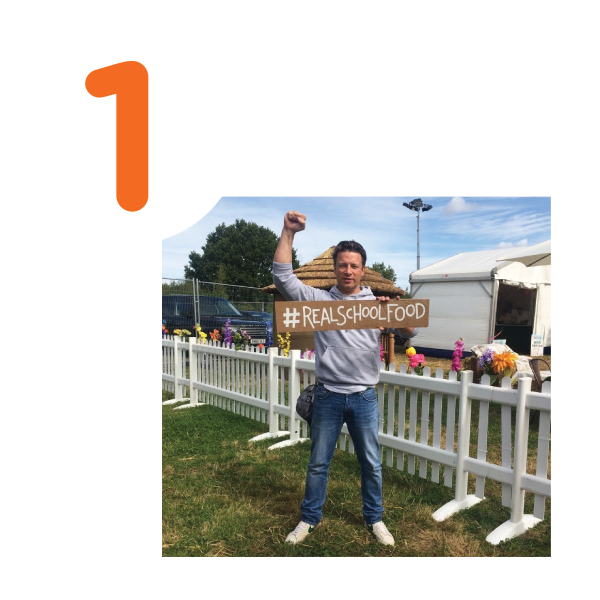
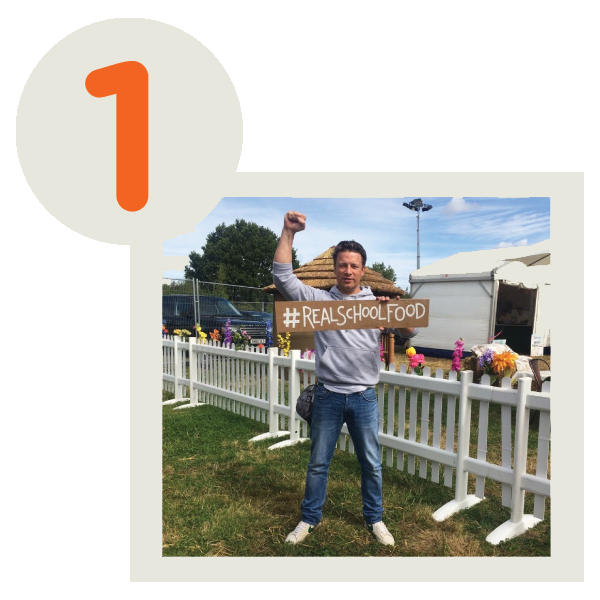
Corrected colors, links, FB album not loading

Changed region(s): [[0.0, 0.03, 0.99, 0.99], [0.81, 0.45, 0.84, 0.48]]

diff --git a/css/style.css b/css/style.css
@@ -106,6 +106,8 @@
 }
 #whyHelp ul.tabs li.current{
     background-color: rgba(204,204,204,.6);
+/*    background-color: #e7e7dd;*/
+    background-color: rgba(133, 120, 112, .2);
 }
 
 .tab-content{
@@ -114,12 +116,13 @@
     padding: 35px;
     color: rgb(88, 82, 70);
     background-color: rgba(204,204,204,.6);
+/*    background-color: #e7e7dd;*/
+    background-color: rgba(133, 120, 112, .2);
     line-height: 1.5;
     font-size: 18px;
     margin: 0 auto;
     min-height: 243px;
 }
-
 .tab-content li{
     list-style:decimal;
     margin-left: 50px;
@@ -130,7 +133,7 @@
 }
 
 #getInvolved{
-    background: #73a563;
+    background: #51843C;
     padding-bottom: 20px;
     position: relative;
 }
@@ -138,12 +141,12 @@
     width: 100%;
     margin: 0 auto;
     text-align: center;
-    color: white;
+    color: #e7e7dd;
     font-size: 75px;
     font-weight: 700;
     padding-top: 75px;
     padding-bottom: 30px;
-    background: #73a563;
+/*    background: #73a563;*/
 }
 #getInvolved .lines{
     position:inherit;
@@ -156,7 +159,7 @@
 #getInvolved article{
     width: 85%;
     margin: 0 auto;
-    color: white;
+    color: #e7e7dd;
 /*    background: red;*/
 }
 #getInvolved .instruction img{
@@ -202,9 +205,11 @@
     display: inline-block;
     width: 88%;
     vertical-align: top;
+    line-height: 1.5;
     text-align: center;
     font-size: 22px;
-    padding: 10px;
+    padding-left: 10px;
+    padding-right: 10px;
 }
 #getInvolved #comments button{
     display: inline-block;
@@ -219,11 +224,9 @@
     margin: 0 auto;
     font-size: 36px;
     text-align: center;
-    background: #73a563;
     font-weight: 500;
-    color: white;
+    color: #e7e7dd;
     padding: 10px;
-/*    padding-top: 20px;*/
     line-height: 1.5;
 }
 
@@ -232,8 +235,8 @@
 }
 
 #ending-facebook-prompt-banner{
-    color: white;
-    background: #f76b21;
+    color: #e7e7dd;
+    background: #F16422;
 }
 
 #ending-facebook-prompt{
@@ -256,21 +259,21 @@
 }
 
 #otherOptions{
-    background: #73a563;
+    background: #51843C;
     padding-bottom: 20px;
 }
 
 #otherOptions h3{
     position: relative;
     font-size: 45px;
-    color: white;
+    color: #e7e7dd;
     margin: 0 auto;
     width: 90%;
     text-align: center;
     padding: 30px;
     padding-top: 40px;
     font-weight: 700;
-    color: white;
+    color: #e7e7dd;
 }
 #otherOptions .other-lines{
     position:relative;
@@ -292,24 +295,25 @@
     display: inline-block;
     position: relative;
     vertical-align: top;
-    color: #f76b21;
+    color: #e7e7dd;
     font-size: 40px;
-    top: 80px;
-    left: 110px;
-    width: 0px;
+    top: 25px;
+    width: 80%;
+    left: 35px;
     font-weight: 600;
 }
 #otherOptions li p{
     display: inline-block;
-    width: 50%;
-    color: white;
+    width: 90%;
+    color: #e7e7dd;
     font-size: 24px;
     vertical-align: top;
     position: relative;
-    left: 110px;
+    left: 35px;
     line-height: 1.3;
-    top: 140px;
+    top: 35px;
     font-weight: 500;
+    margin-bottom: 50px;
 }
 #wrapUp{
     background-image: url(../imgs/wrap-up.jpg);
@@ -325,13 +329,12 @@
 #wrapUp h3{
     position: relative;
     font-size: 45px;
-    color: white;
     margin: 0 auto;
     width: 90%;
     text-align: center;
     top: 80px;
     font-weight: 700;
-    color: #F5BC47;
+    color: #FFC627;
 }
 #wrapUp h4{
     position: relative;
@@ -349,7 +352,7 @@
     font-size: 20px;
     width: 390px;
     line-height: 1.5;
-    color: white;
+    color: #e7e7dd;
     top: 180px;
     left: 525px;
 }

diff --git a/index.html b/index.html
@@ -4,7 +4,7 @@
 
     <script src='https://ajax.googleapis.com/ajax/libs/jquery/1.7.1/jquery.min.js'></script>    
     
-    <script type="text/javascript" src="/src/jquery.fb.albumbrowser.js"></script>
+    <script type="text/javascript" src="src/jquery.fb.albumbrowser.js"></script>
     <link rel="stylesheet" type="text/css" href="css/jquery.fb.albumbrowser.css" />
     <link rel="stylesheet" type="text/css" href="css/style.css">
 
@@ -348,7 +348,7 @@
                 </article>
                 <article class="instruction"> 
                     <img src="imgs/step-2.png"> 
-                    <p>Choose and download your favorite school lunch from the grid below</p>
+                    <p>Choose your favorite school lunch from the grid below and download it from Facebook</p>
                 </article>
                 <article class="instruction"> 
                     <img src="imgs/step-3.png">
@@ -399,7 +399,7 @@
                 
                 <article id="ending-facebook-prompt-banner">
                     <p id="ending-facebook-prompt">
-                        Check out the rest of our photos on <a href="https://www.facebook.com/media/set/?set=a.10150433804992704.422749.117329027703&type=3" target="_blank"><span class="fb-blue">facebook</span></a>
+                        Check out the rest of our photos on <a href="https://www.facebook.com/media/set/?set=a.10153659705852704.1073741829.117329027703&type=3" target="_blank"><span class="fb-blue">facebook</span></a>
                     </p>
                 </article>
             </section> <!-- end #fb-images  -->
@@ -413,13 +413,15 @@
                 <ol>
                     <li>
                         <img src="imgs/option-1.png">
+                        <br>
                         <h4>Share</h4>
-                        <p><a href="http://www.mammachia.com/">Mamma Chia</a> has agreed to sponsor our campaign and will be donating $1 for every person who participates, so please share this with your friends and family!</p>
+                        <p><a href="http://www.mammachia.com/" target="_blank">Mamma Chia</a> has agreed to sponsor our campaign and will be donating $1 for every person who participates, so please share this with your friends and family!</p>
                     </li>
                     <li>
                         <img src="imgs/option-2.png">
+                        <br>
                         <h4>Donate</h4>
-                        <p>You can support our cause by <a href="https://secure.donationpay.org/chefannfoundation/">donating</a> towards the development of more scratch-cooked school food recipes for our national database.
+                        <p>You can support our cause by <a href="https://secure.donationpay.org/chefannfoundation/" target="_blank">donating</a> towards the development of more scratch-cooked school food recipes for our national database.
                             </p>
                     </li>
                 </ol>

diff --git a/css/jquery.fb.albumbrowser.css b/css/jquery.fb.albumbrowser.css
@@ -28,7 +28,6 @@ ul.fb-albums, ul.fb-photos {
     background-image:none;
 }
 .fb-loading-image{
-    background-image:url('loader.gif') !important;
     background-position: center center;
     background-repeat:no-repeat;
 }
@@ -37,7 +36,6 @@ ul.fb-albums, ul.fb-photos {
     border-radius: 6px;
     width: 64px;
     height: 64px;
-    background-image: url('loader.gif');
     background-position: center center;
     background-repeat: no-repeat;
 }
@@ -78,7 +76,6 @@ li.fb-album, li.fb-photo {
 
         li.fb-photo .image-check.checked {
             display: block;
-            background-image: url('check.png');
             background-position: left top;
             background-repeat: no-repeat;
         }
@@ -137,7 +134,6 @@ img.fb-albums-list {
     top: 0px;
     left: 0px;
     z-index: 999;
-    background-image: url('loader.gif');
     background-position: center center;
     background-repeat: no-repeat;
     width: 100%;
@@ -209,7 +205,6 @@ img.fb-comment-account {
     display: inline-block;
     width: 50px;
     height: 50px;
-    background-image: url('loader.gif');
     background-position: center center;
     background-repeat: no-repeat;
 }

diff --git a/src/jquery.fb.albumbrowser.js b/src/jquery.fb.albumbrowser.js
@@ -568,8 +568,8 @@
                     if (settings.showImageText || settings.likeButton || settings.shareButton) {
                         lightboxContent.append($("<div>", { class: "fb-preview-text" }));
                     }
-                    overlay.append($("<img>", { class: "fb-preview-img-prev", src: settings.pluginImagesPath + "prev-icon.png" }));
-                    overlay.append($("<img>", { class: "fb-preview-img-next", src: settings.pluginImagesPath + "next-icon.png" }));
+                    overlay.append($("<img>", { class: "fb-preview-img-prev"}));
+                    overlay.append($("<img>", { class: "fb-preview-img-next"}));
 
                     $("body").append(overlay);
                     overlay = $(".fb-preview-overlay");
